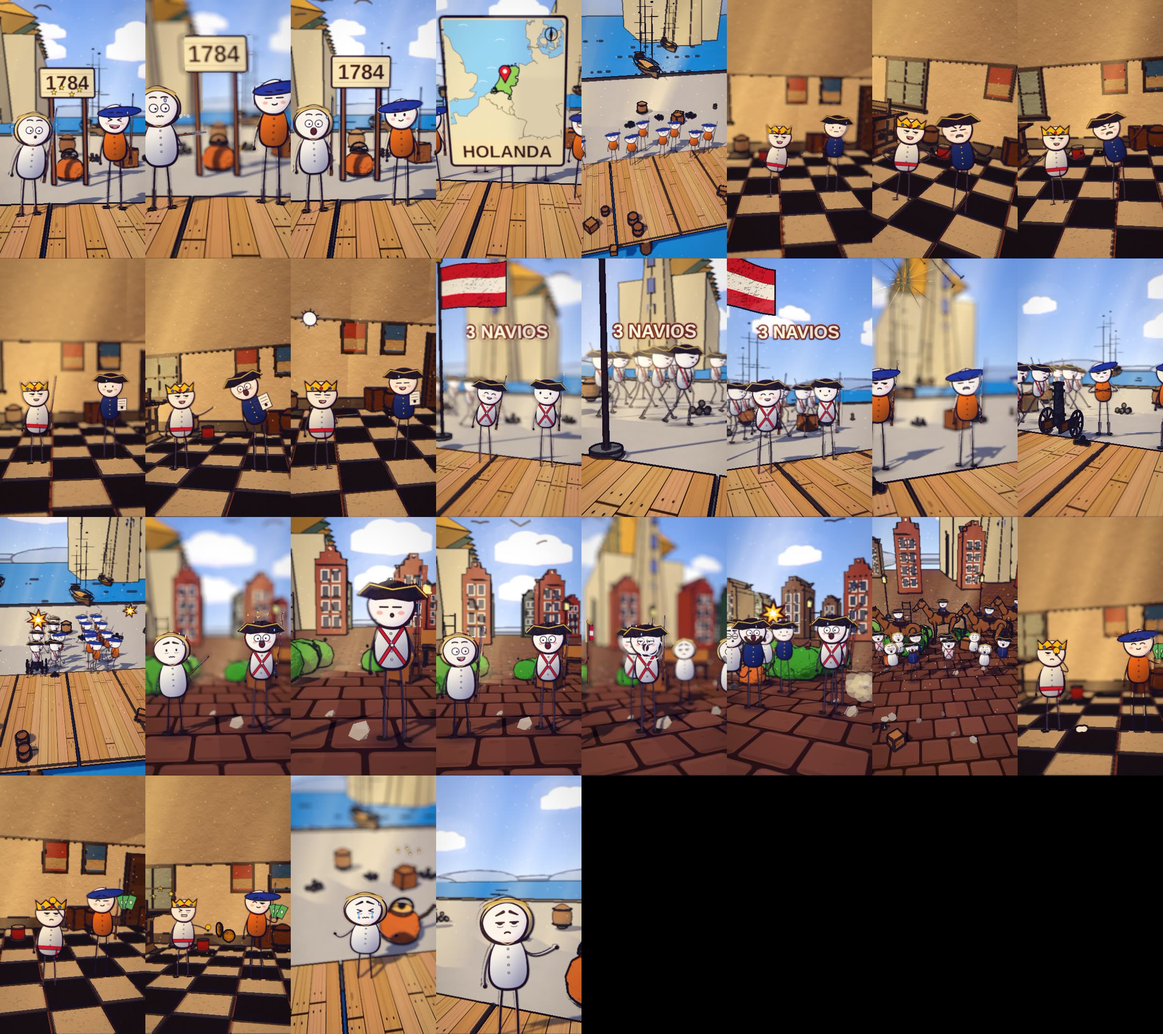
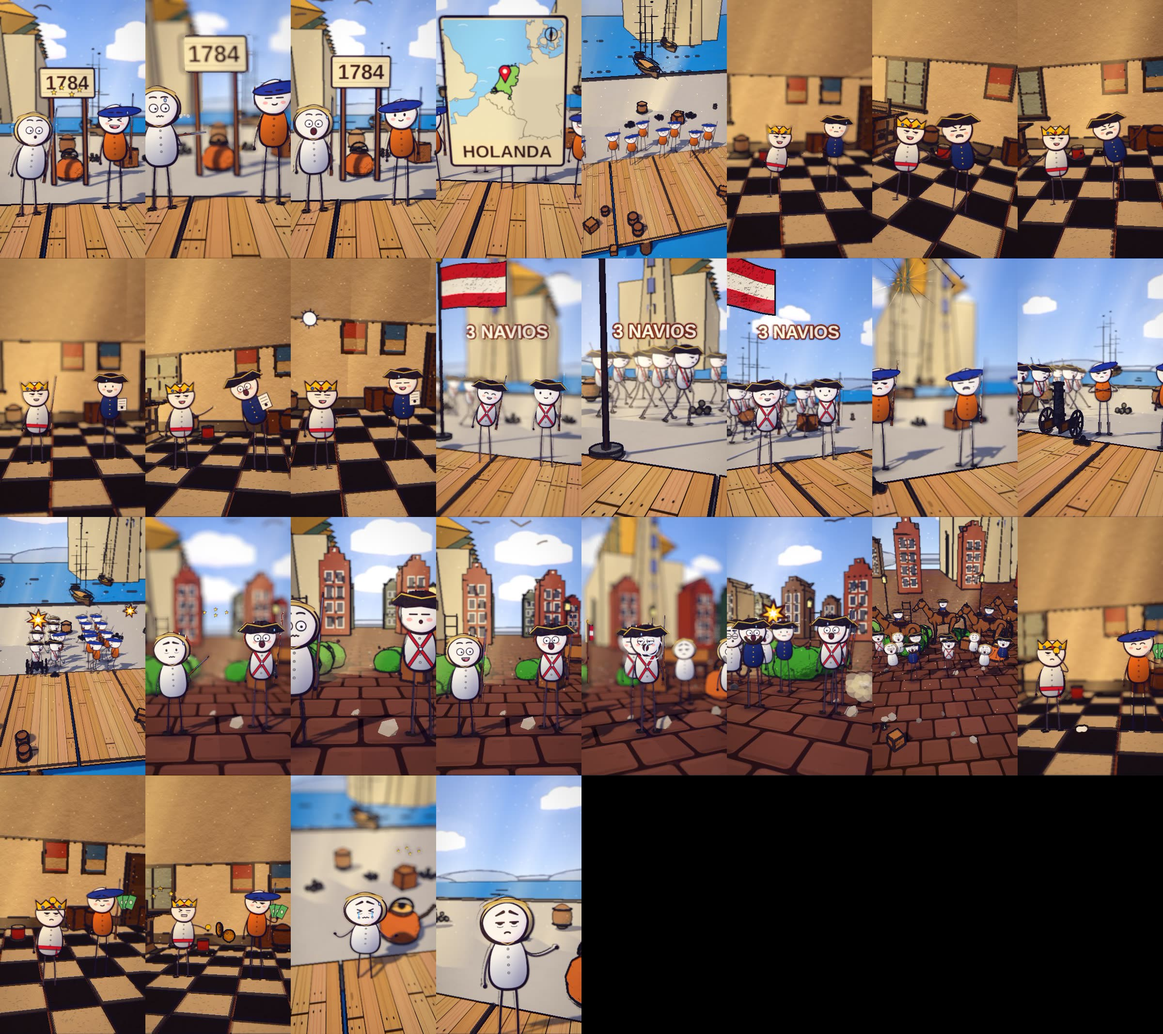
bitcoin2021 b4: volta barraca (camera ancora), narracao 'pagar tudo'
Claude-Session: https://claude.ai/code/session_01HE8Dy3Tz5Mgz6d3rSUrMHS

Changed region(s): [[0.25, 0.4953, 0.5, 0.743], [0.5938, 0.6191, 0.6562, 0.6811], [0.8438, 0.6191, 0.875, 0.6501]]

diff --git a/ferramenta-shorts/stories/bitcoin2021/spec.js b/ferramenta-shorts/stories/bitcoin2021/spec.js
@@ -9,14 +9,14 @@ const SPEC = {
     DEP: (v = 0, e = {}) => ({ _id: "dep", jacket: "#6a4a8a", pants: "#2a2d33", boots: "#1b1b1f", hat: "hair", hair: "#2a1a10", tie: "#d8282f", collar: "#f4f4f2", skin: ["#ffe2c2", "#f5c9a0", "#ecd0b6", "#c99067"][v % 4], ...(((v + 217) % 6 === 4 && true) ? { glasses: true } : {}), ...(([1, 5].includes((v + 217) % 6) && true) ? { beard: ['#3a2a1f', '#6b4a2a', '#8a8a86'][(v + 3) % 3] } : {}), ...((((v + 217) % 6 === 3) && true) ? { moustache: ['#4a3020', '#2a201a', '#8a8a86'][v % 3] } : {}), ...e }),
     POV: (v = 0, e = {}) => ({ _id: "pov", jacket: "#c9783a", pants: "#e8dcc0", boots: "#6a4a2a", hat: "straw", cap: "#3b2a1a", moustache: "#3a2a1f", build: "stout", skin: ["#ffe2c2", "#f5c9a0", "#ecd0b6", "#c99067"][v % 4], jacket: ["#3f6fb5", "#6a4a2a", "#2a5a3a", "#8a3a2a", "#3a4a6a", "#7a6a3a", "#5a5a62", "#b0524a"][v % 8], ...(((v + 245) % 6 === 4 && true) ? { glasses: true } : {}), ...(([1, 5].includes((v + 245) % 6) && true) ? { beard: ['#3a2a1f', '#6b4a2a', '#8a8a86'][(v + 3) % 3] } : {}), ...((((v + 245) % 6 === 3) && false) ? { moustache: ['#4a3020', '#2a201a', '#8a8a86'][v % 3] } : {}), ...e }),
     CLI: (v = 0, e = {}) => ({ _id: "cli", jacket: "#3a8a5a", pants: "#2a3a5a", boots: "#1b1b1f", hat: "hair", hair: "#6a3a1a", skin: ["#ffe2c2", "#f5c9a0", "#ecd0b6", "#c99067"][v % 4], ...(((v + 216) % 6 === 4 && true) ? { glasses: true } : {}), ...(([1, 5].includes((v + 216) % 6) && true) ? { beard: ['#3a2a1f', '#6b4a2a', '#8a8a86'][(v + 3) % 3] } : {}), ...((((v + 216) % 6 === 3) && true) ? { moustache: ['#4a3020', '#2a201a', '#8a8a86'][v % 3] } : {}), ...e }) },
-  assets: ["buildings/house_small", "buildings/shop", "kit/bitcoin", "kit/coin", "kit/globe", "kit/room_eua_stone", "kit/volcano", "mk/Bookcase_2", "mk/Chair_1", "mk/Chest_Wood", "mk/Table_Large"],
+  assets: ["buildings/house_small", "buildings/shop", "kit/bitcoin", "kit/coin", "kit/globe", "kit/room_eua_stone", "kit/stall", "kit/volcano", "mk/Bookcase_2", "mk/Chair_1", "mk/Chest_Wood", "mk/Table_Large"],
   kicks: [], flashes: [],
   shots: [
     S('b0', A[0], Math.round(A[0] + (A[1] - 1 + 1 - (A[0])) * 0.36) - 1, X, "day", { h: 2.3, d0: 8.4, d1: 7.4, vary: false, hero: { hero: 'any', frame: 'medium', minH: 0.07, main: 2 }, actors: [Object.assign(pp(X, "BUK", 0, -1.15, 1.3, "smile", { over: { hold: "coin" }, inter: { k: 'step', a: Math.round(A[0] + (A[1] - 1 - (A[0])) * 0.12), b: Math.round(A[0] + (A[1] - 1 - (A[0])) * 0.82), dir: 1, n: 2, ph: 0 } }), { gests: [[WS(20) - 4, WS(20) + 46, 'reach']] }), pp(X, "POV", 0, 1.15, 1.0, "surprised", { pose: 'talk', inter: { k: 'recoil', a: Math.round(A[0] + (A[1] - 1 - (A[0])) * 0.2), b: Math.round(A[0] + (A[1] - 1 - (A[0])) * 0.9), dir: -1, n: 2, ph: 3.14 } })], props: [{ asset: "buildings/shop", at: [X + -4.8, -11.0], s: 1.05, ry: 0.35, drop: false }, { asset: "kit/bitcoin", at: [X + 3.15, 0.3], s: 1.3, drop: false }, { asset: "kit/volcano", at: [X + 0, -120], s: 9.0, drop: false }, { asset: 'kit/coin', a: Math.max(A[0] + 4, WS(20) - 20), b: A[1] - 1, at: [X + 0.35, 1.8], y: DK + 1.25, s: 0.32, drop: false }], fx: [{ k: 'stars', a: A[0] + 6, b: A[0] + 40, at: [X + 1.5, DK + 1.6, 0.8], s: 0.8 }, { k: 'birds', a: A[0], b: A[1] - 1, at: [X, DK + 4.5, -30], n: 4, dir: 1, off: 8 }, { k: "stars", a: WS(20), b: WS(20) + 28, at: [X + -1.15, DK + 0.5, 2.5], s: 1.1 }] }), { ...S('b0_d', Math.round(A[0] + (A[1] - 1 + 1 - (A[0])) * 0.36), Math.round(A[0] + (A[1] - 1 + 1 - (A[0])) * 0.6) - 1, X, "day", { h: 2.3, d0: 8.4, d1: 7.4, vary: false, hero: { hero: 'none', detalhe: true }, actors: [Object.assign(pp(X, "BUK", 0, -1.15, 1.3, "smile", { over: { hold: "coin" } }), { gests: [[WS(20) - 4, WS(20) + 46, 'reach']] }), pp(X, "POV", 0, 1.15, 1.0, "surprised", { pose: 'stand' })], props: [{ asset: "buildings/shop", at: [X + -4.8, -11.0], s: 1.05, drop: false, ry: 0.35, drop: false }, { asset: "kit/bitcoin", at: [X + 3.15, 0.3], s: 1.3, drop: false }, { asset: "kit/volcano", at: [X + 0, -120], s: 9.0, drop: false }, { asset: 'kit/coin', a: Math.max(A[0] + 4, WS(20) - 20), b: A[1] - 1, at: [X + 0.35, 1.8], y: DK + 1.25, s: 0.32, drop: false }], fx: [{ k: 'stars', a: A[0] + 6, b: A[0] + 40, at: [X + 1.5, DK + 1.6, 0.8], s: 0.8 }, { k: 'birds', a: A[0], b: A[1] - 1, at: [X, DK + 4.5, -30], n: 4, dir: 1, off: 8 }, { k: "stars", a: WS(20), b: WS(20) + 28, at: [X + -1.15, DK + 0.5, 2.5], s: 1.1 }] }), cam: [{ f: Math.round(A[0] + (A[1] - 1 + 1 - (A[0])) * 0.36), at: [X + 1.5, DK + 0.975, 0.3], d: 4.2, az: -14, el: 10, fov: 44 }, { f: Math.round(A[0] + (A[1] - 1 + 1 - (A[0])) * 0.6) - 1, at: [X + 1.5, DK + 0.975, 0.3], d: 3.4, az: -8, el: 9, fov: 44 }], nocut: true, vary: false, glide: true, glideN: 34 }, { ...S('b0_v', Math.round(A[0] + (A[1] - 1 + 1 - (A[0])) * 0.6), A[1] - 1, X, "day", { h: 2.3, d0: 8.4, d1: 7.4, vary: false, hero: { hero: 'any', frame: 'medium', minH: 0.07, main: 2 }, actors: [Object.assign(pp(X, "BUK", 0, -1.15, 1.3, "smile", { over: { hold: "coin" }, inter: { k: 'step', a: Math.round(A[0] + (A[1] - 1 - (A[0])) * 0.12), b: Math.round(A[0] + (A[1] - 1 - (A[0])) * 0.82), dir: 1, n: 2, ph: 0 } }), { gests: [[WS(20) - 4, WS(20) + 46, 'reach']] }), pp(X, "POV", 0, 1.15, 1.0, "surprised", { pose: 'talk', inter: { k: 'recoil', a: Math.round(A[0] + (A[1] - 1 - (A[0])) * 0.2), b: Math.round(A[0] + (A[1] - 1 - (A[0])) * 0.9), dir: -1, n: 2, ph: 3.14 } })], props: [{ asset: "buildings/shop", at: [X + -4.8, -11.0], s: 1.05, drop: false, ry: 0.35, drop: false }, { asset: "kit/bitcoin", at: [X + 3.15, 0.3], s: 1.3, drop: false }, { asset: "kit/volcano", at: [X + 0, -120], s: 9.0, drop: false }, { asset: 'kit/coin', a: Math.max(A[0] + 4, WS(20) - 20), b: A[1] - 1, at: [X + 0.35, 1.8], y: DK + 1.25, s: 0.32, drop: false }], fx: [{ k: 'stars', a: A[0] + 6, b: A[0] + 40, at: [X + 1.5, DK + 1.6, 0.8], s: 0.8 }, { k: 'birds', a: A[0], b: A[1] - 1, at: [X, DK + 4.5, -30], n: 4, dir: 1, off: 8 }, { k: "stars", a: WS(20), b: WS(20) + 28, at: [X + -1.15, DK + 0.5, 2.5], s: 1.1 }] }), glide: true, glideN: 34 },
     { ...{ ...S('b1', A[1], A[2] - 1, X, "day", { h: 2.4, d0: 11.0, d1: 27.0, el: 10, fov: 46, cx: 0.0, cz: -1.5, hero: { hero: 'none', wide: true }, vary: false, nocut: true, trans: 'dissolve', actors: [Object.assign(pp(X, "BUK", 0, 0.0, -0.4, "smug"), { gests: [[WS(32) - 4, WS(32) + 46, 'think']] }), pp(X, "POV", 0, -8.05, 0.84, "neutral", { look: -0.25, seed: 0 }), pp(X, "POV", 1, -5.79, 1.32, "neutral", { look: 0.25, seed: 1 }), pp(X, "POV", 2, -3.53, 0.96, "neutral", { look: 0.0, seed: 2 }), pp(X, "POV", 3, -2.26, 1.44, "neutral", { look: 0.15, seed: 3 }), pp(X, "POV", 4, 0.0, 1.08, "neutral", { look: -0.25, seed: 0 }), pp(X, "POV", 5, 2.26, 1.56, "neutral", { look: 0.25, seed: 1 }), pp(X, "POV", 6, 3.53, 1.2, "neutral", { look: 0.0, seed: 2 }), pp(X, "POV", 0, 5.79, 0.84, "neutral", { look: 0.15, seed: 3 })], props: [{ asset: "kit/volcano", at: [X + 0, -120], s: 9.0, drop: false }], fx: [{ k: 'map', a: WS(23, -2), b: Math.min(A[2] - 1, WS(23, -2) + 54), text: "EL SALVADOR", geo: {"polys": [[656, 174, 654, 177, 652, 178, 647, 187, 646, 188, 645, 181, 643, 181, 640, 183, 638, 186, 641, 190, 643, 190, 646, 192, 654, 221, 652, 226, 647, 234, 643, 241, 638, 246, 632, 264, 627, 294, 631, 321, 629, 346, 631, 352, 631, 360, 627, 361, 625, 361, 623, 356, 623, 352, 626, 348, 627, 341, 625, 338, 623, 345, 619, 348, 617, 350, 614, 353, 617, 360, 620, 365, 621, 369, 620, 373, 619, 388, 618, 387, 617, 385, 613, 385, 613, 391, 613, 394, 610, 397, 609, 399, 612, 401, 614, 402, 618, 402, 621, 409, 621, 415, 615, 420, 613, 425, 609, 430, 607, 436, 606, 440, 609, 452, 613, 460, 617, 466, 622, 467, 621, 473, 617, 477, 610, 480, 603, 480, 590, 477, 585, 477, 583, 475, 583, 473, 579, 468, 573, 463, 569, 463, 563, 462, 553, 458, 548, 457, 541, 461, 534, 465, 515, 458, 501, 454, 490, 449, 486, 448, 484, 448, 482, 450, 479, 454, 478, 455, 477, 456, 475, 457, 475, 455, 469, 447, 460, 437, 425, 408, 412, 391, 405, 378, 398, 371, 379, 358, 374, 353, 355, 335, 341, 324, 341, 320, 347, 314, 350, 314, 353, 318, 358, 323, 360, 323, 364, 321, 364, 319, 383, 318, 387, 317, 390, 313, 392, 309, 393, 305, 393, 301, 396, 298, 402, 297, 406, 297, 408, 295, 406, 288, 404, 272, 404, 267, 404, 264, 406, 262, 415, 262, 431, 263, 434, 262, 441, 253, 447, 246, 451, 243, 455, 242, 458, 248, 472, 257, 475, 256, 476, 256, 476, 254, 476, 250, 480, 247, 487, 243, 494, 238, 501, 229, 507, 224, 513, 223, 515, 221, 513, 218, 514, 213, 516, 208, 519, 204, 523, 204, 525, 202, 524, 199, 525, 196, 528, 191, 537, 187, 542, 189, 546, 194, 552, 198, 559, 200, 565, 199, 570, 196, 573, 195, 577, 196, 578, 195, 579, 192, 580, 192, 584, 193, 587, 194, 589, 193, 590, 191, 591, 190, 592, 189, 599, 190, 606, 188, 615, 184, 620, 182, 623, 182, 626, 180, 629, 175, 638, 173, 656, 174], [-1717, -1087, -1549, -1101, -1325, -1011, -1094, -1001, -1017, -1033, -941, -1006, -847, -905, -776, -848, -721, -856, -659, -891, -611, -879, -544, -798, -492, -735, -482, -694, -434, -642, -342, -610, -340, -562, -364, -394, -336, -302, -343, -302, -336, -265, -250, -128, -215, -92, -149, -67, -40, -73, 40, -94, 89, -87, 76, -104, 144, -182, 186, -276, 306, -301, 376, -295, 378, -303, 393, -243, 352, -174, 357, -150, 352, -137, 321, -74, 299, -79, 255, -36, 135, -29, 93, 22, 145, 70, 92, 97, 33, 168, 24, 204, -83, 110, -122, 89, -145, 77, -173, 80, -256, 124, -444, 62, -601, 1, -698, -45, -828, -121, -913, -209, -899, -242, -884, -293, -956, -406, -1044, -500, -1080, -524, -1083, -550, -1151, -580, -1163, -588, -1157, -636, -1207, -673, -1258, -722, -1297, -759, -1362, -826, -1398, -885, -1434, -973, -1444, -996, -1504, -1014, -1557, -1035, -1543, -922, -1467, -841, -1435, -798, -1411, -754, -1359, -687, -1344, -681, -1309, -602, -1270, -516, -1241, -492, -1199, -460, -1207, -396, -1272, -465, -1346, -519, -1366, -591, -1439, -686, -1498, -689, -1558, -737, -1518, -750, -1516, -755, -1564, -859, -1625, -927, -1661, -992, -1681, -1038], [656, 174, 629, 175, 623, 182, 615, 184, 599, 190, 591, 190, 589, 193, 584, 193, 579, 192, 577, 196, 570, 196, 559, 200, 546, 194, 537, 187, 525, 196, 525, 202, 519, 204, 514, 213, 515, 221, 507, 224, 494, 238, 480, 247, 476, 254, 475, 256, 458, 248, 451, 243, 441, 253, 431, 263, 406, 262, 404, 267, 406, 288, 406, 297, 396, 298, 393, 305, 390, 313, 383, 318, 364, 311, 356, 302, 354, 295, 346, 290, 334, 290, 336, 285, 335, 281, 333, 276, 337, 259, 331, 253, 318, 254, 312, 248, 299, 250, 286, 256, 283, 252, 282, 247, 271, 244, 266, 240, 257, 234, 246, 224, 239, 219, 224, 216, 224, 212, 236, 202, 234, 189, 233, 181, 238, 168, 250, 163, 270, 148, 292, 129, 302, 121, 314, 118, 324, 111, 338, 108, 350, 114, 361, 114, 394, 119, 424, 116, 445, 110, 462, 105, 458, 100, 493, 109, 524, 104, 552, 110, 563, 116, 567, 114, 561, 111, 613, 142, 599, 136, 589, 138, 590, 145, 596, 144, 606, 148, 614, 158, 620, 155, 629, 158, 628, 152, 622, 147, 646, 168, 656, 174], [428, 74, 417, 80, 413, 80, 418, 76, 427, 72, 434, 70, 440, 71, 428, 74], [466, 68, 461, 73, 460, 71, 463, 67, 466, 65, 469, 65, 468, 67, 466, 68], [22, 206, 24, 204, 25, 200, 27, 196, 26, 191, 25, 187, 27, 181, 27, 176, 28, 173, 31, 172, 33, 168, 24, 156, 24, 154, 25, 150, 32, 138, 41, 123, 51, 106, 57, 97, 78, 97, 92, 97, 110, 97, 129, 97, 142, 97, 147, 96, 146, 90, 147, 83, 149, 76, 149, 74, 145, 70, 138, 68, 134, 65, 134, 61, 132, 56, 128, 51, 121, 45, 110, 39, 100, 31, 93, 22, 86, 15, 81, 13, 80, 11, 95, 11, 109, 11, 109, -2, 109, -15, 109, -29, 135, -29, 165, -29, 197, -29, 222, -29, 237, -29, 236, -11, 235, 9, 235, 24, 234, 43, 233, 64, 232, 91, 231, 109, 232, 110, 240, 109, 252, 109, 255, 109, 259, 111, 262, 111, 268, 115, 276, 119, 280, 112, 278, 109, 276, 107, 276, 105, 302, 121, 299, 124, 292, 129, 280, 139, 270, 148, 260, 155, 250, 163, 249, 163, 238, 168, 236, 171, 233, 181, 232, 183, 234, 189, 236, 197, 236, 202, 228, 207, 224, 212, 223, 215, 221, 215, 219, 214, 213, 216, 210, 216, 208, 217, 207, 220, 209, 225, 210, 228, 208, 229, 201, 232, 198, 235, 195, 240, 192, 242, 189, 241, 187, 242, 182, 246, 175, 252, 171, 257, 171, 261, 171, 264, 145, 253, 136, 251, 98, 251, 82, 246, 63, 237, 51, 229, 22, 206], [223, 215, 224, 216, 236, 219, 239, 219, 244, 222, 246, 224, 248, 227, 257, 234, 259, 236, 266, 240, 268, 243, 271, 244, 277, 245, 282, 247, 282, 248, 283, 252, 284, 256, 286, 256, 289, 254, 299, 250, 307, 246, 312, 248, 315, 252, 318, 254, 325, 253, 331, 253, 336, 257, 337, 259, 334, 271, 333, 276, 333, 280, 335, 281, 336, 283, 336, 285, 331, 289, 329, 290, 330, 297, 326, 301, 323, 304, 316, 305, 305, 306, 288, 302, 276, 297, 270, 297, 272, 299, 277, 300, 284, 303, 282, 304, 257, 297, 228, 283, 211, 281, 192, 277, 180, 268, 171, 264, 171, 261, 171, 257, 175, 252, 182, 246, 187, 242, 189, 241, 192, 242, 195, 240, 198, 235, 201, 232, 208, 229, 210, 228, 209, 225, 207, 220, 208, 217, 210, 216, 213, 216, 219, 214, 221, 215, 223, 215], [697, 564, 697, 565, 696, 566, 694, 568, 692, 569, 686, 566, 681, 562, 678, 564, 677, 568, 675, 570, 672, 571, 671, 573, 671, 587, 671, 601, 675, 601, 682, 606, 685, 609, 686, 611, 685, 612, 680, 615, 675, 619, 673, 624, 677, 631, 678, 636, 678, 642, 677, 644, 667, 650, 665, 653, 665, 654, 670, 658, 673, 663, 675, 668, 675, 672, 671, 664, 664, 656, 658, 652, 658, 641, 656, 635, 647, 629, 639, 625, 634, 626, 637, 632, 646, 640, 647, 644, 646, 648, 641, 647, 635, 645, 629, 645, 625, 642, 616, 633, 622, 624, 624, 619, 624, 608, 622, 603, 615, 594, 604, 585, 589, 578, 582, 572, 563, 567, 556, 564, 551, 559, 550, 554, 552, 548, 547, 540, 526, 525, 513, 519, 511, 516, 509, 515, 511, 525, 516, 532, 530, 538, 534, 541, 535, 546, 527, 555, 523, 557, 522, 562, 519, 563, 516, 560, 505, 547, 484, 540, 480, 536, 471, 523, 468, 512, 469, 505, 478, 493, 481, 487, 480, 484, 481, 480, 477, 476, 469, 472, 464, 469, 465, 467, 475, 462, 475, 458, 475, 457, 477, 456, 478, 455, 479, 454, 482, 450, 484, 448, 486, 448, 490, 449, 501, 454, 515, 458, 534, 465, 541, 461, 548, 457, 553, 458, 563, 462, 569, 463, 573, 463, 579, 468, 583, 473, 583, 475, 585, 477, 590, 477, 603, 480, 610, 480, 617, 477, 621, 473, 622, 467, 624, 470, 626, 475, 627, 480, 636, 500, 643, 510, 658, 530, 665, 534, 676, 550, 680, 552, 682, 557, 694, 561, 697, 564], [237, -29, 236, -35, 238, -40, 244, -42, 252, -38, 255, -36, 258, -37, 261, -40, 266, -47, 277, -63, 281, -74, 285, -77, 292, -77, 297, -76, 293, -68, 297, -67, 301, -68, 309, -67, 312, -59, 311, -51, 303, -31, 302, -24, 299, -14, 304, -7, 299, 2, 297, 7, 297, 16, 300, 32, 296, 56, 289, 66, 285, 70, 278, 81, 269, 84, 256, 100, 254, 105, 255, 109, 252, 109, 240, 109, 232, 110, 231, 109, 232, 91, 233, 64, 234, 43, 235, 24, 235, 9, 236, -11, 237, -29], [328, -1, 323, 9, 322, 6, 324, -1, 327, -4, 329, -6, 330, -10, 332, -8, 332, -5, 328, -1]], "hl": [6], "pin": [254.0, 260.0]} }, { k: 'ring', a: WS(32) + 6, b: WS(32) + 34, at: [X + 0.0, DK + 3.6, 1.5], s: 0.7 }] }), nocut: true }, cam: [{ f: A[1], at: [X + 0.0, DK + 2.0, 0.5], d: 9, az: 10, el: 5, fov: 46 }, { f: A[2] - 1, at: [X + 0.0, DK + 1.0, -2.0], d: 30, az: -14, el: 30, fov: 48 }], nocut: true },
     S('b2', A[2], A[3] - 1, X_hall, "study", { h: 2.5, d0: 11.3, d1: 9.944, hero: { hero: 'any', frame: 'medium', minH: 0.07, main: 3 }, trans: 'dissolve', actors: [pp(X_hall, "DEP", 0, -2.1, 1.3, "neutral", { over: { hold: "paper" }, inter: { k: 'nod', a: Math.round(A[2] + (A[3] - 1 - (A[2])) * 0.12), b: Math.round(A[2] + (A[3] - 1 - (A[2])) * 0.82), dir: 1, n: 2, ph: 0 } }), pp(X_hall, "BUK", 0, 0.0, 1.0, "smile", { pose: 'talk', inter: { k: 'lean', a: Math.round(A[2] + (A[3] - 1 - (A[2])) * 0.2), b: Math.round(A[2] + (A[3] - 1 - (A[2])) * 0.9), dir: -1, n: 2, ph: 3.14 } }), pp(X_hall, "CLI", 0, 2.1, 1.6, "neutral", { pose: 'talk' })], props: [{ asset: "kit/room_eua_stone", at: [X_hall, 0], s: 1, drop: false }, { asset: "mk/Bookcase_2", at: [X_hall + 7.4, -3.4], s: 2.4, drop: false }, { asset: "mk/Table_Large", at: [X_hall + -6.6, -1.6], s: 2.2, drop: false }, { asset: "mk/Chair_1", at: [X_hall + -4.4, -1.2], s: 2.2, drop: false }, { asset: "mk/Chest_Wood", at: [X_hall + 6.9, 0.6], s: 2.2, drop: false }, { asset: "kit/bitcoin", at: [X_hall + 4.1, 0.3], s: 1.1, drop: false }], fx: [{ k: 'stars', a: A[2] + 6, b: A[2] + 40, at: [X_hall + 1.6, DK + 1.6, 0.8], s: 0.8 }] }),
     { ...{ ...S('b3', A[3], Math.round(A[3] + (A[4] - 1 + 1 - (A[3])) * 0.3) - 1, X_harbor, "day", { h: 2.6, d0: 25.0, d1: 19.0, el: 11, cx: 0.0, cz: -1.5, hero: { hero: 'none', wide: true }, vary: false, nocut: true, trans: 'dissolve', actors: [pp(X_harbor, "BUK", 0, -1.15, -0.4, "grin"), pp(X_harbor, "POV", 0, 1.15, 0.2, "smile"), pp(X_harbor, "POV", 0, -8.05, 0.84, "neutral", { look: -0.25, seed: 0 }), pp(X_harbor, "CLI", 1, -5.79, 1.32, "neutral", { look: 0.25, seed: 1 }), pp(X_harbor, "DEP", 2, -3.53, 0.96, "neutral", { look: 0.0, seed: 2 }), pp(X_harbor, "POV", 3, -2.26, 1.44, "neutral", { look: 0.15, seed: 3 }), pp(X_harbor, "CLI", 4, 0.0, 1.08, "neutral", { look: -0.25, seed: 0 }), pp(X_harbor, "DEP", 5, 2.26, 1.56, "neutral", { look: 0.25, seed: 1 }), pp(X_harbor, "POV", 6, 3.53, 1.2, "neutral", { look: 0.0, seed: 2 }), pp(X_harbor, "CLI", 0, 5.79, 0.84, "neutral", { look: 0.15, seed: 3 })], props: [{ asset: "kit/volcano", at: [X_harbor + 0, -120], s: 9.0, drop: false }], fx: [{ k: 'birds', a: A[3], b: A[4] - 1, at: [X_harbor, DK + 4.5, -30], n: 4, dir: -1, off: 15 }, txt(X_harbor, WS(48, -2), A[4] - 1, "7 DE SETEMBRO DE 2021", '#e8c45a', '#7a1c1c', 4.8, { s: 1.5, up: 0.42 }), { k: "ring", a: A[3] + 12, b: A[3] + 38, at: [X_harbor, DK + 0.5, 1.2], s: 1.1 }, { k: "dust", a: A[3] + 40, b: A[3] + 66, at: [X_harbor + 0.9, DK + 0.12, 1.0], s: 0.75 }] }), nocut: true }, cam: [{ f: A[3], at: [X_harbor + 0.0, DK + 2.2, 0.5], d: 8.5, az: -26, el: 2, fov: 44 }, { f: Math.round(A[3] + (A[4] - 1 + 1 - (A[3])) * 0.3) - 1, at: [X_harbor + 1.0, DK + 2.2, 0.5], d: 7.4, az: -14, el: 3, fov: 44 }], nocut: true, vary: false }, { ...{ ...S('b3_1', Math.round(A[3] + (A[4] - 1 + 1 - (A[3])) * 0.3), Math.round(A[3] + (A[4] - 1 + 1 - (A[3])) * 0.55) - 1, X_harbor, "day", { h: 2.6, d0: 25.0, d1: 19.0, el: 11, cx: 0.0, cz: -1.5, hero: { hero: 'none', wide: true }, vary: false, nocut: true, trans: 'cut', actors: [pp(X_harbor, "BUK", 0, -1.15, -0.4, "grin"), pp(X_harbor, "POV", 0, 1.15, 0.2, "smile"), pp(X_harbor, "POV", 0, -8.05, 0.84, "neutral", { look: -0.25, seed: 0 }), pp(X_harbor, "CLI", 1, -5.79, 1.32, "neutral", { look: 0.25, seed: 1 }), pp(X_harbor, "DEP", 2, -3.53, 0.96, "neutral", { look: 0.0, seed: 2 }), pp(X_harbor, "POV", 3, -2.26, 1.44, "neutral", { look: 0.15, seed: 3 }), pp(X_harbor, "CLI", 4, 0.0, 1.08, "neutral", { look: -0.25, seed: 0 }), pp(X_harbor, "DEP", 5, 2.26, 1.56, "neutral", { look: 0.25, seed: 1 }), pp(X_harbor, "POV", 6, 3.53, 1.2, "neutral", { look: 0.0, seed: 2 }), pp(X_harbor, "CLI", 0, 5.79, 0.84, "neutral", { look: 0.15, seed: 3 })], props: [{ asset: "kit/volcano", at: [X_harbor + 0, -120], s: 9.0, drop: false }], fx: [{ k: 'birds', a: A[3], b: A[4] - 1, at: [X_harbor, DK + 4.5, -30], n: 4, dir: -1, off: 15 }, txt(X_harbor, WS(48, -2), A[4] - 1, "7 DE SETEMBRO DE 2021", '#e8c45a', '#7a1c1c', 4.8, { s: 1.5, up: 0.42 }), { k: "ring", a: A[3] + 12, b: A[3] + 38, at: [X_harbor, DK + 0.5, 1.2], s: 1.1 }, { k: "dust", a: A[3] + 40, b: A[3] + 66, at: [X_harbor + 0.9, DK + 0.12, 1.0], s: 0.75 }] }), nocut: true }, cam: [{ f: Math.round(A[3] + (A[4] - 1 + 1 - (A[3])) * 0.3), at: [X_harbor + -6.0, DK + 1.8, 0.0], d: 11, az: 30, el: 5, fov: 46 }, { f: Math.round(A[3] + (A[4] - 1 + 1 - (A[3])) * 0.55) - 1, at: [X_harbor + 4.0, DK + 1.8, 0.0], d: 11, az: 18, el: 5, fov: 46, ease: "lin" }], nocut: true, vary: false, glide: true }, { ...{ ...S('b3_2', Math.round(A[3] + (A[4] - 1 + 1 - (A[3])) * 0.55), A[4] - 1, X_harbor, "day", { h: 2.6, d0: 25.0, d1: 19.0, el: 11, cx: 0.0, cz: -1.5, hero: { hero: 'none', wide: true }, vary: false, nocut: true, trans: 'cut', actors: [pp(X_harbor, "BUK", 0, -1.15, -0.4, "grin"), pp(X_harbor, "POV", 0, 1.15, 0.2, "smile"), pp(X_harbor, "POV", 0, -8.05, 0.84, "neutral", { look: -0.25, seed: 0 }), pp(X_harbor, "CLI", 1, -5.79, 1.32, "neutral", { look: 0.25, seed: 1 }), pp(X_harbor, "DEP", 2, -3.53, 0.96, "neutral", { look: 0.0, seed: 2 }), pp(X_harbor, "POV", 3, -2.26, 1.44, "neutral", { look: 0.15, seed: 3 }), pp(X_harbor, "CLI", 4, 0.0, 1.08, "neutral", { look: -0.25, seed: 0 }), pp(X_harbor, "DEP", 5, 2.26, 1.56, "neutral", { look: 0.25, seed: 1 }), pp(X_harbor, "POV", 6, 3.53, 1.2, "neutral", { look: 0.0, seed: 2 }), pp(X_harbor, "CLI", 0, 5.79, 0.84, "neutral", { look: 0.15, seed: 3 })], props: [{ asset: "kit/volcano", at: [X_harbor + 0, -120], s: 9.0, drop: false }], fx: [{ k: 'birds', a: A[3], b: A[4] - 1, at: [X_harbor, DK + 4.5, -30], n: 4, dir: -1, off: 15 }, txt(X_harbor, WS(48, -2), A[4] - 1, "7 DE SETEMBRO DE 2021", '#e8c45a', '#7a1c1c', 4.8, { s: 1.5, up: 0.42 }), { k: "ring", a: A[3] + 12, b: A[3] + 38, at: [X_harbor, DK + 0.5, 1.2], s: 1.1 }, { k: "dust", a: A[3] + 40, b: A[3] + 66, at: [X_harbor + 0.9, DK + 0.12, 1.0], s: 0.75 }] }), nocut: true }, cam: [{ f: Math.round(A[3] + (A[4] - 1 + 1 - (A[3])) * 0.55), at: [X_harbor + 0.0, DK + 1.4, 0.0], d: 15, az: 8, el: 12, fov: 48 }, { f: A[4] - 1, at: [X_harbor + 0.0, DK + 1.0, -3.0], d: 34, az: -16, el: 30, fov: 48 }], nocut: true, vary: false, glide: true },
-    S('b4', A[4], Math.round(A[4] + (A[5] - 1 + 1 - (A[4])) * 0.36) - 1, X, "day", { h: 2.3, d0: 8.4, d1: 7.4, vary: false, hero: { hero: 'any', frame: 'medium', minH: 0.07, main: 2 }, trans: 'dissolve', actors: [Object.assign(pp(X, "CLI", 0, -1.15, 1.3, "smile", { over: { hold: "coin" }, pose: 'talk', inter: { k: 'step', a: Math.round(A[4] + (A[5] - 1 - (A[4])) * 0.12), b: Math.round(A[4] + (A[5] - 1 - (A[4])) * 0.82), dir: 1, n: 2, ph: 0 } }), { gests: [[WS(67) - 4, WS(67) + 46, 'reach']] }), pp(X, "POV", 0, 1.15, 1.0, "grin", { pose: 'talk', inter: { k: 'nod', a: Math.round(A[4] + (A[5] - 1 - (A[4])) * 0.2), b: Math.round(A[4] + (A[5] - 1 - (A[4])) * 0.9), dir: -1, n: 2, ph: 3.14 } })], props: [{ asset: "buildings/shop", at: [X + -4.8, -11.0], s: 1.05, ry: 0.35, drop: false }, { asset: "kit/bitcoin", at: [X + -3.15, 0.5], s: 1.0, drop: false }, { asset: "kit/volcano", at: [X + 0, -120], s: 9.0, drop: false }, { asset: 'kit/coin', a: Math.max(A[4] + 4, WS(67) - 20), b: A[5] - 1, at: [X + 0.35, 1.8], y: DK + 1.25, s: 0.32, drop: false }], fx: [{ k: 'stars', a: A[4] + 6, b: A[4] + 40, at: [X + -1.2, DK + 1.6, 1.0], s: 0.8 }, { k: 'birds', a: A[4], b: A[5] - 1, at: [X, DK + 6.0, -30], n: 5, dir: 1, off: 8 }, { k: "stars", a: A[4] + 3, b: A[4] + 29, at: [X, DK + 0.5, 1.2], s: 1.1 }, { k: "stars", a: WS(67), b: WS(67) + 28, at: [X + -1.15, DK + 0.5, 2.5], s: 1.1 }] }), { ...S('b4_d', Math.round(A[4] + (A[5] - 1 + 1 - (A[4])) * 0.36), Math.round(A[4] + (A[5] - 1 + 1 - (A[4])) * 0.6) - 1, X, "day", { h: 2.3, d0: 8.4, d1: 7.4, vary: false, hero: { hero: 'none', detalhe: true }, trans: 'cut', actors: [Object.assign(pp(X, "CLI", 0, -1.15, 1.3, "smile", { over: { hold: "coin" }, pose: 'stand' }), { gests: [[WS(67) - 4, WS(67) + 46, 'reach']] }), pp(X, "POV", 0, 1.15, 1.0, "grin", { pose: 'stand' })], props: [{ asset: "buildings/shop", at: [X + -4.8, -11.0], s: 1.05, drop: false, ry: 0.35, drop: false }, { asset: "kit/bitcoin", at: [X + -3.15, 0.5], s: 1.0, drop: false }, { asset: "kit/volcano", at: [X + 0, -120], s: 9.0, drop: false }, { asset: 'kit/coin', a: Math.max(A[4] + 4, WS(67) - 20), b: A[5] - 1, at: [X + 0.35, 1.8], y: DK + 1.25, s: 0.32, drop: false }], fx: [{ k: 'stars', a: A[4] + 6, b: A[4] + 40, at: [X + -1.2, DK + 1.6, 1.0], s: 0.8 }, { k: 'birds', a: A[4], b: A[5] - 1, at: [X, DK + 6.0, -30], n: 5, dir: 1, off: 8 }, { k: "stars", a: A[4] + 3, b: A[4] + 29, at: [X, DK + 0.5, 1.2], s: 1.1 }, { k: "stars", a: WS(67), b: WS(67) + 28, at: [X + -1.15, DK + 0.5, 2.5], s: 1.1 }] }), cam: [{ f: Math.round(A[4] + (A[5] - 1 + 1 - (A[4])) * 0.36), at: [X + -1.2, DK + 0.75, 0.5], d: 4.2, az: 14, el: 10, fov: 44 }, { f: Math.round(A[4] + (A[5] - 1 + 1 - (A[4])) * 0.6) - 1, at: [X + -1.2, DK + 0.75, 0.5], d: 3.4, az: 8, el: 9, fov: 44 }], nocut: true, vary: false, glide: true, glideN: 34 }, { ...S('b4_v', Math.round(A[4] + (A[5] - 1 + 1 - (A[4])) * 0.6), A[5] - 1, X, "day", { h: 2.3, d0: 8.4, d1: 7.4, vary: false, hero: { hero: 'any', frame: 'medium', minH: 0.07, main: 2 }, trans: 'cut', actors: [Object.assign(pp(X, "CLI", 0, -1.15, 1.3, "smile", { over: { hold: "coin" }, pose: 'talk', inter: { k: 'step', a: Math.round(A[4] + (A[5] - 1 - (A[4])) * 0.12), b: Math.round(A[4] + (A[5] - 1 - (A[4])) * 0.82), dir: 1, n: 2, ph: 0 } }), { gests: [[WS(67) - 4, WS(67) + 46, 'reach']] }), pp(X, "POV", 0, 1.15, 1.0, "grin", { pose: 'talk', inter: { k: 'nod', a: Math.round(A[4] + (A[5] - 1 - (A[4])) * 0.2), b: Math.round(A[4] + (A[5] - 1 - (A[4])) * 0.9), dir: -1, n: 2, ph: 3.14 } })], props: [{ asset: "buildings/shop", at: [X + -4.8, -11.0], s: 1.05, drop: false, ry: 0.35, drop: false }, { asset: "kit/bitcoin", at: [X + -3.15, 0.5], s: 1.0, drop: false }, { asset: "kit/volcano", at: [X + 0, -120], s: 9.0, drop: false }, { asset: 'kit/coin', a: Math.max(A[4] + 4, WS(67) - 20), b: A[5] - 1, at: [X + 0.35, 1.8], y: DK + 1.25, s: 0.32, drop: false }], fx: [{ k: 'stars', a: A[4] + 6, b: A[4] + 40, at: [X + -1.2, DK + 1.6, 1.0], s: 0.8 }, { k: 'birds', a: A[4], b: A[5] - 1, at: [X, DK + 6.0, -30], n: 5, dir: 1, off: 8 }, { k: "stars", a: A[4] + 3, b: A[4] + 29, at: [X, DK + 0.5, 1.2], s: 1.1 }, { k: "stars", a: WS(67), b: WS(67) + 28, at: [X + -1.15, DK + 0.5, 2.5], s: 1.1 }] }), glide: true, glideN: 34 },
+    S('b4', A[4], Math.round(A[4] + (A[5] - 1 + 1 - (A[4])) * 0.36) - 1, X, "day", { h: 2.3, d0: 8.4, d1: 7.4, vary: false, hero: { hero: 'any', frame: 'medium', minH: 0.07, main: 2 }, trans: 'dissolve', actors: [Object.assign(pp(X, "CLI", 0, -1.15, 1.3, "smile", { over: { hold: "coin" }, pose: 'talk', inter: { k: 'step', a: Math.round(A[4] + (A[5] - 1 - (A[4])) * 0.12), b: Math.round(A[4] + (A[5] - 1 - (A[4])) * 0.82), dir: 1, n: 2, ph: 0 } }), { gests: [[WS(67) - 4, WS(67) + 46, 'reach']] }), pp(X, "POV", 0, 1.15, 1.0, "grin", { pose: 'talk', inter: { k: 'nod', a: Math.round(A[4] + (A[5] - 1 - (A[4])) * 0.2), b: Math.round(A[4] + (A[5] - 1 - (A[4])) * 0.9), dir: -1, n: 2, ph: 3.14 } })], props: [{ asset: "buildings/shop", at: [X + -4.8, -11.0], s: 1.05, ry: 0.35, drop: false }, { asset: "kit/stall", at: [X + 3.15, -0.5], s: 1.2, drop: false }, { asset: "kit/bitcoin", at: [X + -3.15, 0.3], s: 1.0, drop: false }, { asset: "kit/volcano", at: [X + 0, -120], s: 9.0, drop: false }, { asset: 'kit/coin', a: Math.max(A[4] + 4, WS(67) - 20), b: A[5] - 1, at: [X + 0.35, 1.8], y: DK + 1.25, s: 0.32, drop: false }], fx: [{ k: 'stars', a: A[4] + 6, b: A[4] + 40, at: [X + -1.6, DK + 1.6, 0.8], s: 0.8 }, { k: 'birds', a: A[4], b: A[5] - 1, at: [X, DK + 6.0, -30], n: 5, dir: 1, off: 8 }, { k: "stars", a: A[4] + 3, b: A[4] + 29, at: [X, DK + 0.5, 1.2], s: 1.1 }, { k: "stars", a: WS(67), b: WS(67) + 28, at: [X + -1.15, DK + 0.5, 2.5], s: 1.1 }] }), { ...S('b4_d', Math.round(A[4] + (A[5] - 1 + 1 - (A[4])) * 0.36), Math.round(A[4] + (A[5] - 1 + 1 - (A[4])) * 0.6) - 1, X, "day", { h: 2.3, d0: 8.4, d1: 7.4, vary: false, hero: { hero: 'none', detalhe: true }, trans: 'cut', actors: [Object.assign(pp(X, "CLI", 0, -1.15, 1.3, "smile", { over: { hold: "coin" }, pose: 'stand' }), { gests: [[WS(67) - 4, WS(67) + 46, 'reach']] }), pp(X, "POV", 0, 1.15, 1.0, "grin", { pose: 'stand' })], props: [{ asset: "buildings/shop", at: [X + -4.8, -11.0], s: 1.05, drop: false, ry: 0.35, drop: false }, { asset: "kit/stall", at: [X + 3.15, -0.5], s: 1.2, drop: false }, { asset: "kit/bitcoin", at: [X + -3.15, 0.3], s: 1.0, drop: false }, { asset: "kit/volcano", at: [X + 0, -120], s: 9.0, drop: false }, { asset: 'kit/coin', a: Math.max(A[4] + 4, WS(67) - 20), b: A[5] - 1, at: [X + 0.35, 1.8], y: DK + 1.25, s: 0.32, drop: false }], fx: [{ k: 'stars', a: A[4] + 6, b: A[4] + 40, at: [X + -1.6, DK + 1.6, 0.8], s: 0.8 }, { k: 'birds', a: A[4], b: A[5] - 1, at: [X, DK + 6.0, -30], n: 5, dir: 1, off: 8 }, { k: "stars", a: A[4] + 3, b: A[4] + 29, at: [X, DK + 0.5, 1.2], s: 1.1 }, { k: "stars", a: WS(67), b: WS(67) + 28, at: [X + -1.15, DK + 0.5, 2.5], s: 1.1 }] }), cam: [{ f: Math.round(A[4] + (A[5] - 1 + 1 - (A[4])) * 0.36), at: [X + -1.6, DK + 0.75, 0.3], d: 4.2, az: 14, el: 10, fov: 44 }, { f: Math.round(A[4] + (A[5] - 1 + 1 - (A[4])) * 0.6) - 1, at: [X + -1.6, DK + 0.75, 0.3], d: 3.4, az: 8, el: 9, fov: 44 }], nocut: true, vary: false, glide: true, glideN: 34 }, { ...S('b4_v', Math.round(A[4] + (A[5] - 1 + 1 - (A[4])) * 0.6), A[5] - 1, X, "day", { h: 2.3, d0: 8.4, d1: 7.4, vary: false, hero: { hero: 'any', frame: 'medium', minH: 0.07, main: 2 }, trans: 'cut', actors: [Object.assign(pp(X, "CLI", 0, -1.15, 1.3, "smile", { over: { hold: "coin" }, pose: 'talk', inter: { k: 'step', a: Math.round(A[4] + (A[5] - 1 - (A[4])) * 0.12), b: Math.round(A[4] + (A[5] - 1 - (A[4])) * 0.82), dir: 1, n: 2, ph: 0 } }), { gests: [[WS(67) - 4, WS(67) + 46, 'reach']] }), pp(X, "POV", 0, 1.15, 1.0, "grin", { pose: 'talk', inter: { k: 'nod', a: Math.round(A[4] + (A[5] - 1 - (A[4])) * 0.2), b: Math.round(A[4] + (A[5] - 1 - (A[4])) * 0.9), dir: -1, n: 2, ph: 3.14 } })], props: [{ asset: "buildings/shop", at: [X + -4.8, -11.0], s: 1.05, drop: false, ry: 0.35, drop: false }, { asset: "kit/stall", at: [X + 3.15, -0.5], s: 1.2, drop: false }, { asset: "kit/bitcoin", at: [X + -3.15, 0.3], s: 1.0, drop: false }, { asset: "kit/volcano", at: [X + 0, -120], s: 9.0, drop: false }, { asset: 'kit/coin', a: Math.max(A[4] + 4, WS(67) - 20), b: A[5] - 1, at: [X + 0.35, 1.8], y: DK + 1.25, s: 0.32, drop: false }], fx: [{ k: 'stars', a: A[4] + 6, b: A[4] + 40, at: [X + -1.6, DK + 1.6, 0.8], s: 0.8 }, { k: 'birds', a: A[4], b: A[5] - 1, at: [X, DK + 6.0, -30], n: 5, dir: 1, off: 8 }, { k: "stars", a: A[4] + 3, b: A[4] + 29, at: [X, DK + 0.5, 1.2], s: 1.1 }, { k: "stars", a: WS(67), b: WS(67) + 28, at: [X + -1.15, DK + 0.5, 2.5], s: 1.1 }] }), glide: true, glideN: 34 },
     { ...{ ...S('b5', A[5], Math.round(A[5] + (A[6] - 1 + 1 - (A[5])) * 0.3) - 1, X, "day", { h: 2.6, d0: 25.0, d1: 19.0, el: 11, fov: 46, az0: -38, az1: 32, cx: 0.0, cz: -1.5, hero: { hero: 'none', wide: true }, vary: false, nocut: true, trans: 'dissolve', actors: [pp(X, "CLI", 0, 0.0, -0.4, "surprised"), pp(X, "POV", 0, -8.05, 0.84, "neutral", { look: -0.25, seed: 0 }), pp(X, "POV", 1, -5.79, 1.32, "neutral", { look: 0.25, seed: 1 }), pp(X, "POV", 2, -3.53, 0.96, "neutral", { look: 0.0, seed: 2 }), pp(X, "POV", 3, -2.26, 1.44, "neutral", { look: 0.15, seed: 3 }), pp(X, "POV", 4, 0.0, 1.08, "neutral", { look: -0.25, seed: 0 }), pp(X, "POV", 5, 2.26, 1.56, "neutral", { look: 0.25, seed: 1 }), pp(X, "POV", 6, 3.53, 1.2, "neutral", { look: 0.0, seed: 2 }), pp(X, "POV", 0, 5.79, 0.84, "neutral", { look: 0.15, seed: 3 }), pp(X, "POV", 1, 8.05, 1.32, "neutral", { look: -0.25, seed: 0 }), pp(X, "POV", 2, -6.88, -1.14, "neutral", { look: 0.25, seed: 1 }), pp(X, "POV", 3, -4.62, -0.66, "neutral", { look: 0.0, seed: 2 }), pp(X, "POV", 4, -3.35, -1.02, "neutral", { look: 0.15, seed: 3 })], props: [{ asset: "kit/volcano", at: [X + 0, -120], s: 9.0, drop: false }], fx: [{ k: 'birds', a: A[5], b: A[6] - 1, at: [X, DK + 7.5, -30], n: 6, dir: 1, off: 15 }, txt(X, WS(71, -2), A[6] - 1, "CARTEIRA CHIVO", '#fff6e0', '#27408b', 4.8, { s: 1.5, up: 0.42 }), { k: "stars", a: A[5] + 2, b: A[5] + 28, at: [X, DK + 0.5, 1.2], s: 1.1 }] }), nocut: true }, cam: [{ f: A[5], at: [X + 0.0, DK + 2.2, 0.5], d: 8.5, az: -26, el: 2, fov: 44 }, { f: Math.round(A[5] + (A[6] - 1 + 1 - (A[5])) * 0.3) - 1, at: [X + 1.0, DK + 2.2, 0.5], d: 7.4, az: -14, el: 3, fov: 44 }], nocut: true, vary: false }, { ...{ ...S('b5_1', Math.round(A[5] + (A[6] - 1 + 1 - (A[5])) * 0.3), Math.round(A[5] + (A[6] - 1 + 1 - (A[5])) * 0.55) - 1, X, "day", { h: 2.6, d0: 25.0, d1: 19.0, el: 11, fov: 46, az0: -38, az1: 32, cx: 0.0, cz: -1.5, hero: { hero: 'none', wide: true }, vary: false, nocut: true, trans: 'cut', actors: [pp(X, "CLI", 0, 0.0, -0.4, "surprised"), pp(X, "POV", 0, -8.05, 0.84, "neutral", { look: -0.25, seed: 0 }), pp(X, "POV", 1, -5.79, 1.32, "neutral", { look: 0.25, seed: 1 }), pp(X, "POV", 2, -3.53, 0.96, "neutral", { look: 0.0, seed: 2 }), pp(X, "POV", 3, -2.26, 1.44, "neutral", { look: 0.15, seed: 3 }), pp(X, "POV", 4, 0.0, 1.08, "neutral", { look: -0.25, seed: 0 }), pp(X, "POV", 5, 2.26, 1.56, "neutral", { look: 0.25, seed: 1 }), pp(X, "POV", 6, 3.53, 1.2, "neutral", { look: 0.0, seed: 2 }), pp(X, "POV", 0, 5.79, 0.84, "neutral", { look: 0.15, seed: 3 }), pp(X, "POV", 1, 8.05, 1.32, "neutral", { look: -0.25, seed: 0 }), pp(X, "POV", 2, -6.88, -1.14, "neutral", { look: 0.25, seed: 1 }), pp(X, "POV", 3, -4.62, -0.66, "neutral", { look: 0.0, seed: 2 }), pp(X, "POV", 4, -3.35, -1.02, "neutral", { look: 0.15, seed: 3 })], props: [{ asset: "kit/volcano", at: [X + 0, -120], s: 9.0, drop: false }], fx: [{ k: 'birds', a: A[5], b: A[6] - 1, at: [X, DK + 7.5, -30], n: 6, dir: 1, off: 15 }, txt(X, WS(71, -2), A[6] - 1, "CARTEIRA CHIVO", '#fff6e0', '#27408b', 4.8, { s: 1.5, up: 0.42 }), { k: "stars", a: A[5] + 2, b: A[5] + 28, at: [X, DK + 0.5, 1.2], s: 1.1 }] }), nocut: true }, cam: [{ f: Math.round(A[5] + (A[6] - 1 + 1 - (A[5])) * 0.3), at: [X + -6.0, DK + 1.8, 0.0], d: 11, az: 30, el: 5, fov: 46 }, { f: Math.round(A[5] + (A[6] - 1 + 1 - (A[5])) * 0.55) - 1, at: [X + 4.0, DK + 1.8, 0.0], d: 11, az: 18, el: 5, fov: 46, ease: "lin" }], nocut: true, vary: false, glide: true }, { ...{ ...S('b5_2', Math.round(A[5] + (A[6] - 1 + 1 - (A[5])) * 0.55), A[6] - 1, X, "day", { h: 2.6, d0: 25.0, d1: 19.0, el: 11, fov: 46, az0: -38, az1: 32, cx: 0.0, cz: -1.5, hero: { hero: 'none', wide: true }, vary: false, nocut: true, trans: 'cut', actors: [pp(X, "CLI", 0, 0.0, -0.4, "surprised"), pp(X, "POV", 0, -8.05, 0.84, "neutral", { look: -0.25, seed: 0 }), pp(X, "POV", 1, -5.79, 1.32, "neutral", { look: 0.25, seed: 1 }), pp(X, "POV", 2, -3.53, 0.96, "neutral", { look: 0.0, seed: 2 }), pp(X, "POV", 3, -2.26, 1.44, "neutral", { look: 0.15, seed: 3 }), pp(X, "POV", 4, 0.0, 1.08, "neutral", { look: -0.25, seed: 0 }), pp(X, "POV", 5, 2.26, 1.56, "neutral", { look: 0.25, seed: 1 }), pp(X, "POV", 6, 3.53, 1.2, "neutral", { look: 0.0, seed: 2 }), pp(X, "POV", 0, 5.79, 0.84, "neutral", { look: 0.15, seed: 3 }), pp(X, "POV", 1, 8.05, 1.32, "neutral", { look: -0.25, seed: 0 }), pp(X, "POV", 2, -6.88, -1.14, "neutral", { look: 0.25, seed: 1 }), pp(X, "POV", 3, -4.62, -0.66, "neutral", { look: 0.0, seed: 2 }), pp(X, "POV", 4, -3.35, -1.02, "neutral", { look: 0.15, seed: 3 })], props: [{ asset: "kit/volcano", at: [X + 0, -120], s: 9.0, drop: false }], fx: [{ k: 'birds', a: A[5], b: A[6] - 1, at: [X, DK + 7.5, -30], n: 6, dir: 1, off: 15 }, txt(X, WS(71, -2), A[6] - 1, "CARTEIRA CHIVO", '#fff6e0', '#27408b', 4.8, { s: 1.5, up: 0.42 }), { k: "stars", a: A[5] + 2, b: A[5] + 28, at: [X, DK + 0.5, 1.2], s: 1.1 }] }), nocut: true }, cam: [{ f: Math.round(A[5] + (A[6] - 1 + 1 - (A[5])) * 0.55), at: [X + 0.0, DK + 1.4, 0.0], d: 15, az: 8, el: 12, fov: 48 }, { f: A[6] - 1, at: [X + 0.0, DK + 1.0, -3.0], d: 34, az: -16, el: 30, fov: 48 }], nocut: true, vary: false, glide: true },
     S('b6', A[6], A[7] - 1, X_harbor, "day", { h: 2.3, d0: 8.4, d1: 7.4, hero: { hero: 'any', frame: 'medium', minH: 0.07, main: 2 }, trans: 'dissolve', actors: [pp(X_harbor, "CLI", 0, -1.15, 1.3, "nervous", { pose: 'argue', inter: { k: 'lunge', a: Math.round(A[6] + (A[7] - 1 - (A[6])) * 0.12), b: Math.round(A[6] + (A[7] - 1 - (A[6])) * 0.82), dir: 1, n: 2, ph: 0 } }), pp(X_harbor, "POV", 0, 1.15, 1.0, "shock", { pose: 'argue', inter: { k: 'lunge', a: Math.round(A[6] + (A[7] - 1 - (A[6])) * 0.2), b: Math.round(A[6] + (A[7] - 1 - (A[6])) * 0.9), dir: -1, n: 2, ph: 3.14 } })], props: [{ asset: "buildings/shop", at: [X_harbor + -4.8, -11.0], s: 1.05, ry: 0.35, drop: false }, { asset: "kit/volcano", at: [X_harbor + 0, -120], s: 9.0, drop: false }], fx: [{ k: 'birds', a: A[6], b: A[7] - 1, at: [X_harbor, DK + 4.5, -30], n: 4, dir: -1, off: 8 }, { k: 'burst', a: A[6] + 3, at: [X_harbor + -1.15, DK + 1.8, 3.2], s: 1.2 }] }),
     { ...S('b7', A[7], A[8] - 1, X_harbor, "day", { h: 2.4, d0: 19.0, d1: 16.0, el: 6, fov: 46, az0: -38, az1: 32, cx: 0.0, cz: -1.5, hero: { hero: 'none', wide: true }, vary: false, nocut: true, trans: 'dissolve', actors: [pp(X_harbor, "BUK", 0, -1.15, -0.4, "grin"), pp(X_harbor, "DEP", 0, 1.15, 0.2, "laugh"), pp(X_harbor, "POV", 0, -8.05, 0.84, "neutral", { look: -0.25, seed: 0 }), pp(X_harbor, "CLI", 1, -5.79, 1.32, "neutral", { look: 0.25, seed: 1 }), pp(X_harbor, "POV", 2, -3.53, 0.96, "neutral", { look: 0.0, seed: 2 }), pp(X_harbor, "CLI", 3, -2.26, 1.44, "neutral", { look: 0.15, seed: 3 }), pp(X_harbor, "POV", 4, 0.0, 1.08, "neutral", { look: -0.25, seed: 0 }), pp(X_harbor, "CLI", 5, 2.26, 1.56, "neutral", { look: 0.25, seed: 1 })], props: [{ asset: "kit/globe", at: [X_harbor + 3.15, -0.8], s: 1.1, drop: false }, { asset: "kit/volcano", at: [X_harbor + 0, -120], s: 9.0, drop: false }], fx: [{ k: 'birds', a: A[7], b: A[8] - 1, at: [X_harbor, DK + 6.0, -30], n: 5, dir: -1, off: 15 }] }), nocut: true },

diff --git a/ferramenta-shorts/stories/bitcoin2021/folha2_producao.md b/ferramenta-shorts/stories/bitcoin2021/folha2_producao.md
@@ -48,7 +48,7 @@ Coordenadas de cada cena para modelagem, animacao e camera, com os RISCOS que o 
 - Takes: 2 take(s) de ~1,8 s, deslizando de um para o outro: direita baixa -> frente | no meio: desliza ate o objeto (close), segura ~1,5 s e volta
 - Personagens principais (2): CLI (variante 0, expressao smile, segura coin); POV (variante 0, expressao grin)
 - Animacao: conversar | interacao: entregar
-- Objetos/modelos: kit/bitcoin, kit/volcano
+- Objetos/modelos: kit/stall, kit/bitcoin, kit/volcano
 - CONFERIR NA FOLHA DE CONTATO (o que a narracao cita tem que aparecer): bitcoin, isso
 - RISCOS: nenhum
 
@@ -99,6 +99,7 @@ Objeto | Cenas | Situacao | O que fazer
 ---|---|---|---
 kit/bitcoin | b0, b2, b4, b8 | pronto (HEROI: aparece em close) | conferir na folha de contato se le bem; se parecer caixote, refazer com formas.py
 kit/volcano | b0, b1, b3, b4, b5, b6, b7, b8 | pronto | conferir na folha de contato se le bem; se parecer caixote, refazer com formas.py
+kit/stall | b4 | pronto | conferir na folha de contato se le bem; se parecer caixote, refazer com formas.py
 kit/globe | b7 | pronto | conferir na folha de contato se le bem; se parecer caixote, refazer com formas.py
 kit/coin | b8 | pronto | conferir na folha de contato se le bem; se parecer caixote, refazer com formas.py
 

diff --git a/ferramenta-shorts/stories/bitcoin2021/preproducao.md b/ferramenta-shorts/stories/bitcoin2021/preproducao.md
@@ -8,7 +8,7 @@ b0 | street | two | 2 | conversar, INTERAGEM: avanca e o outro recua | kit/bitco
 b1 | street | reveal | 9 | encena | kit/volcano | - | -
 b2 | interior pedra | group | 3 | conversar, INTERAGEM: o outro se aproxima | kit/bitcoin | - | -
 b3 | harbor | crowd | 10 | batalha | kit/volcano | - | -
-b4 | street | two | 2 | conversar, INTERAGEM: entregar | kit/bitcoin, kit/volcano | coin | -
+b4 | street | two | 2 | conversar, INTERAGEM: entregar | kit/stall, kit/bitcoin, kit/volcano | coin | -
 b5 | street | orbit | 13 | batalha | kit/volcano | - | -
 b6 | harbor | two | 2 | discutir, INTERAGEM: discutir | kit/volcano | - | -
 b7 | harbor | orbit | 8 | parados (so fala e pisca) | kit/globe, kit/volcano | - | -
